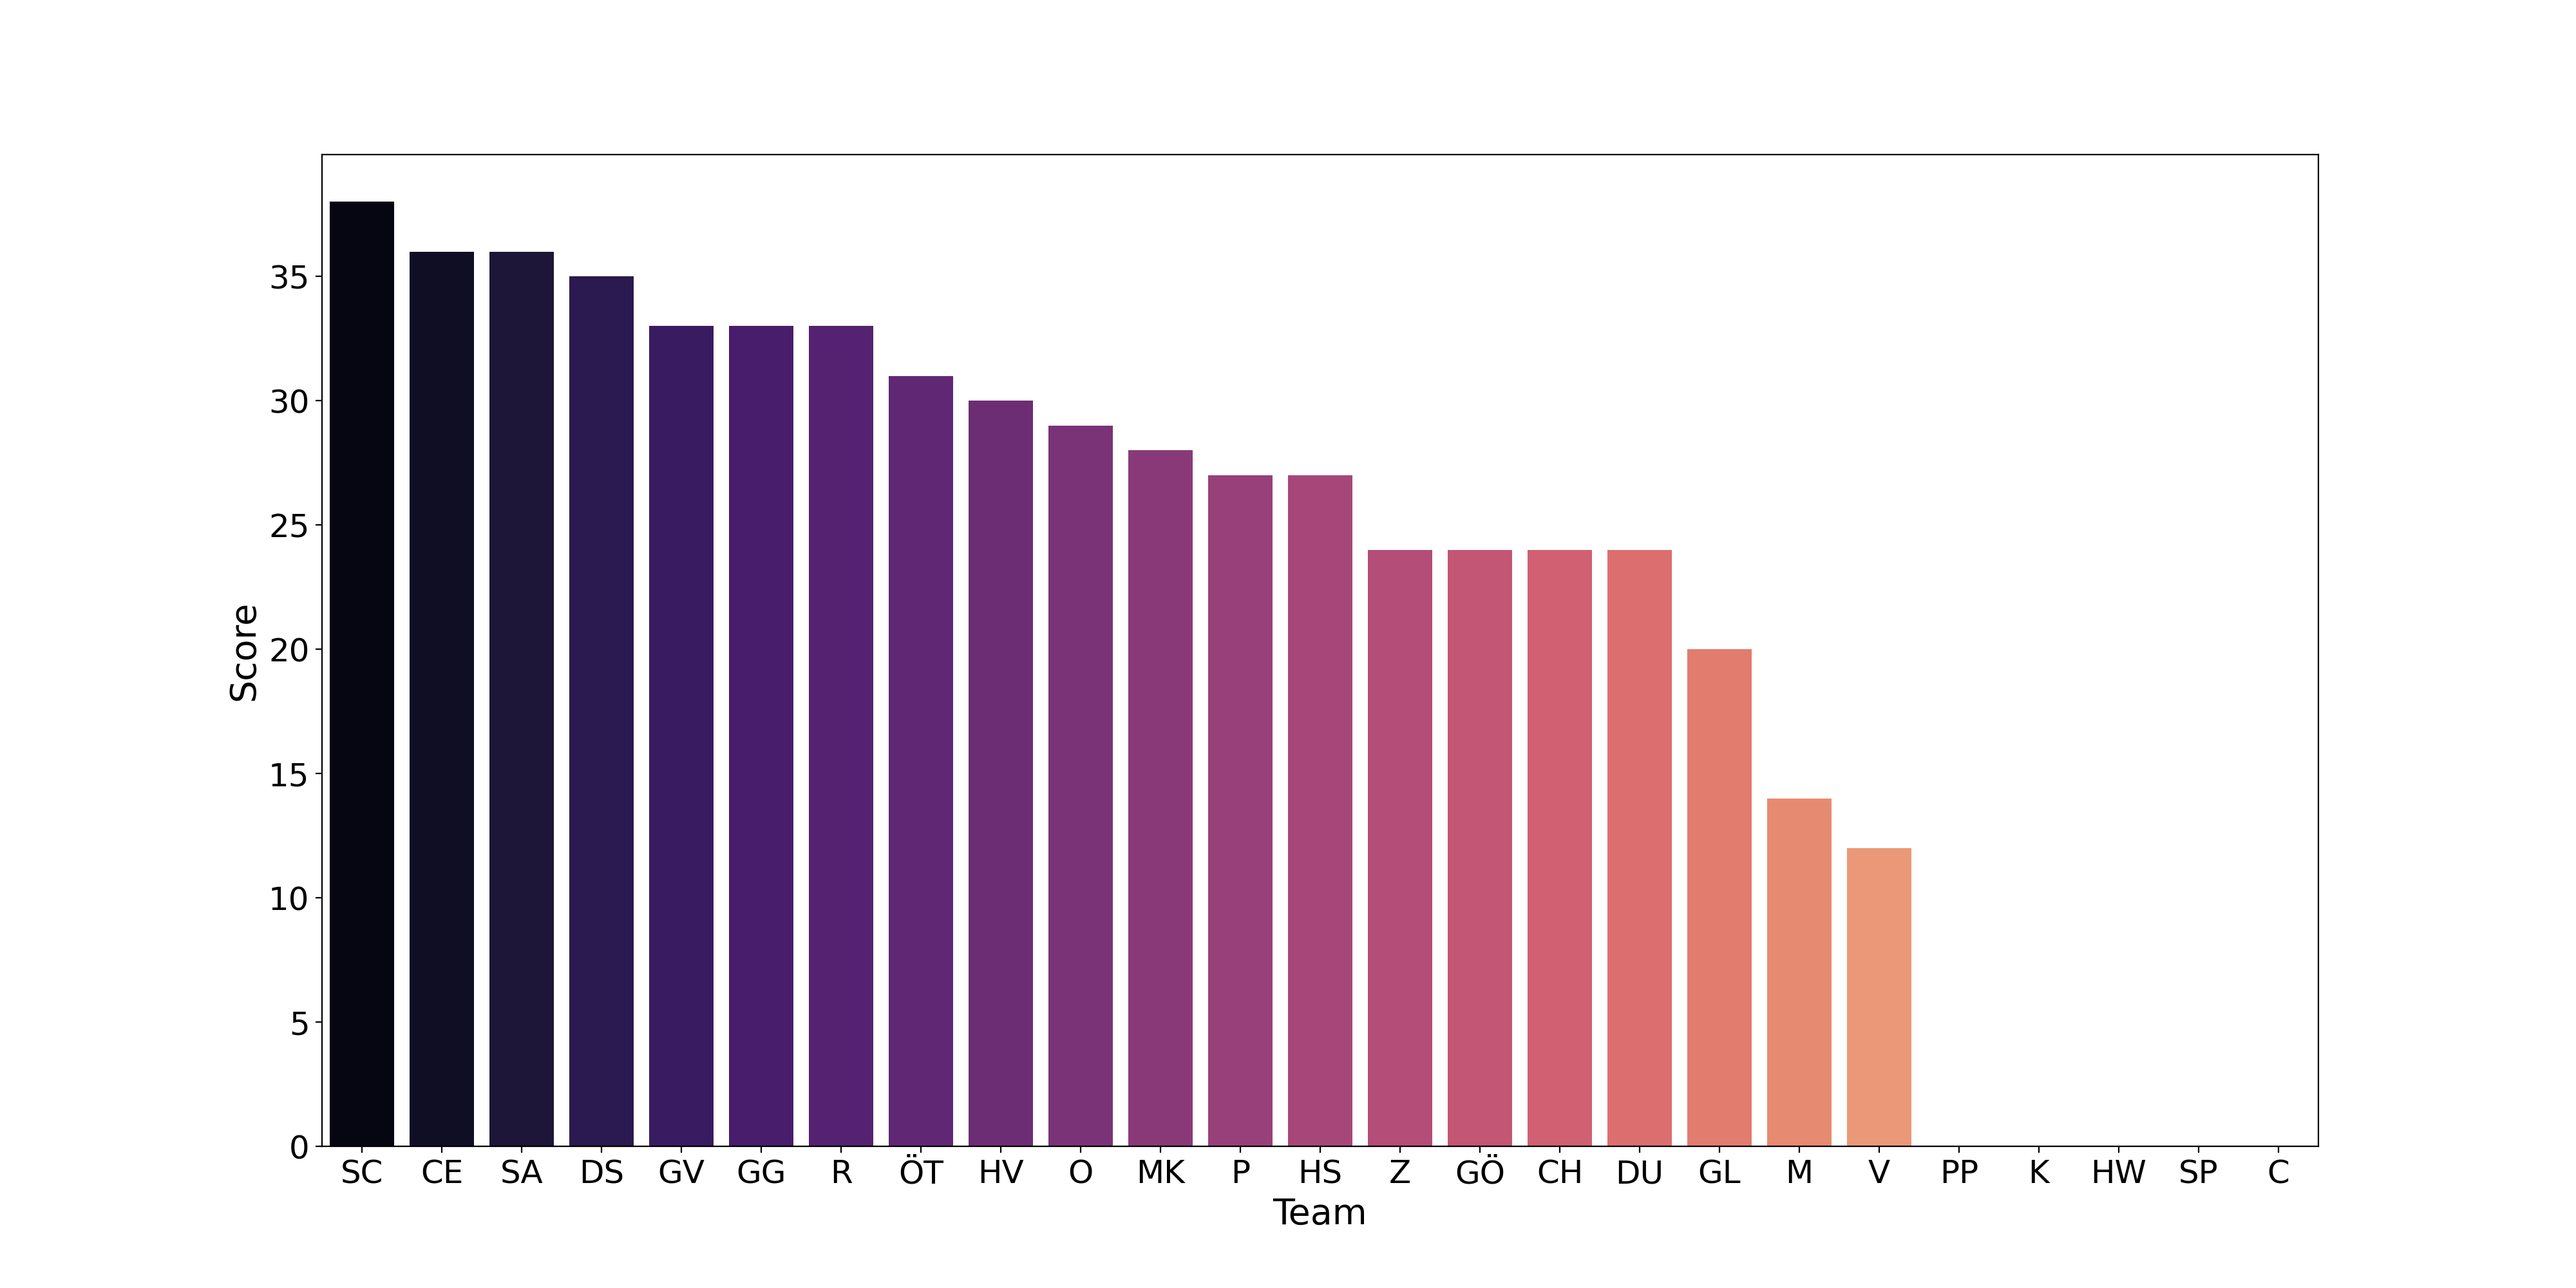
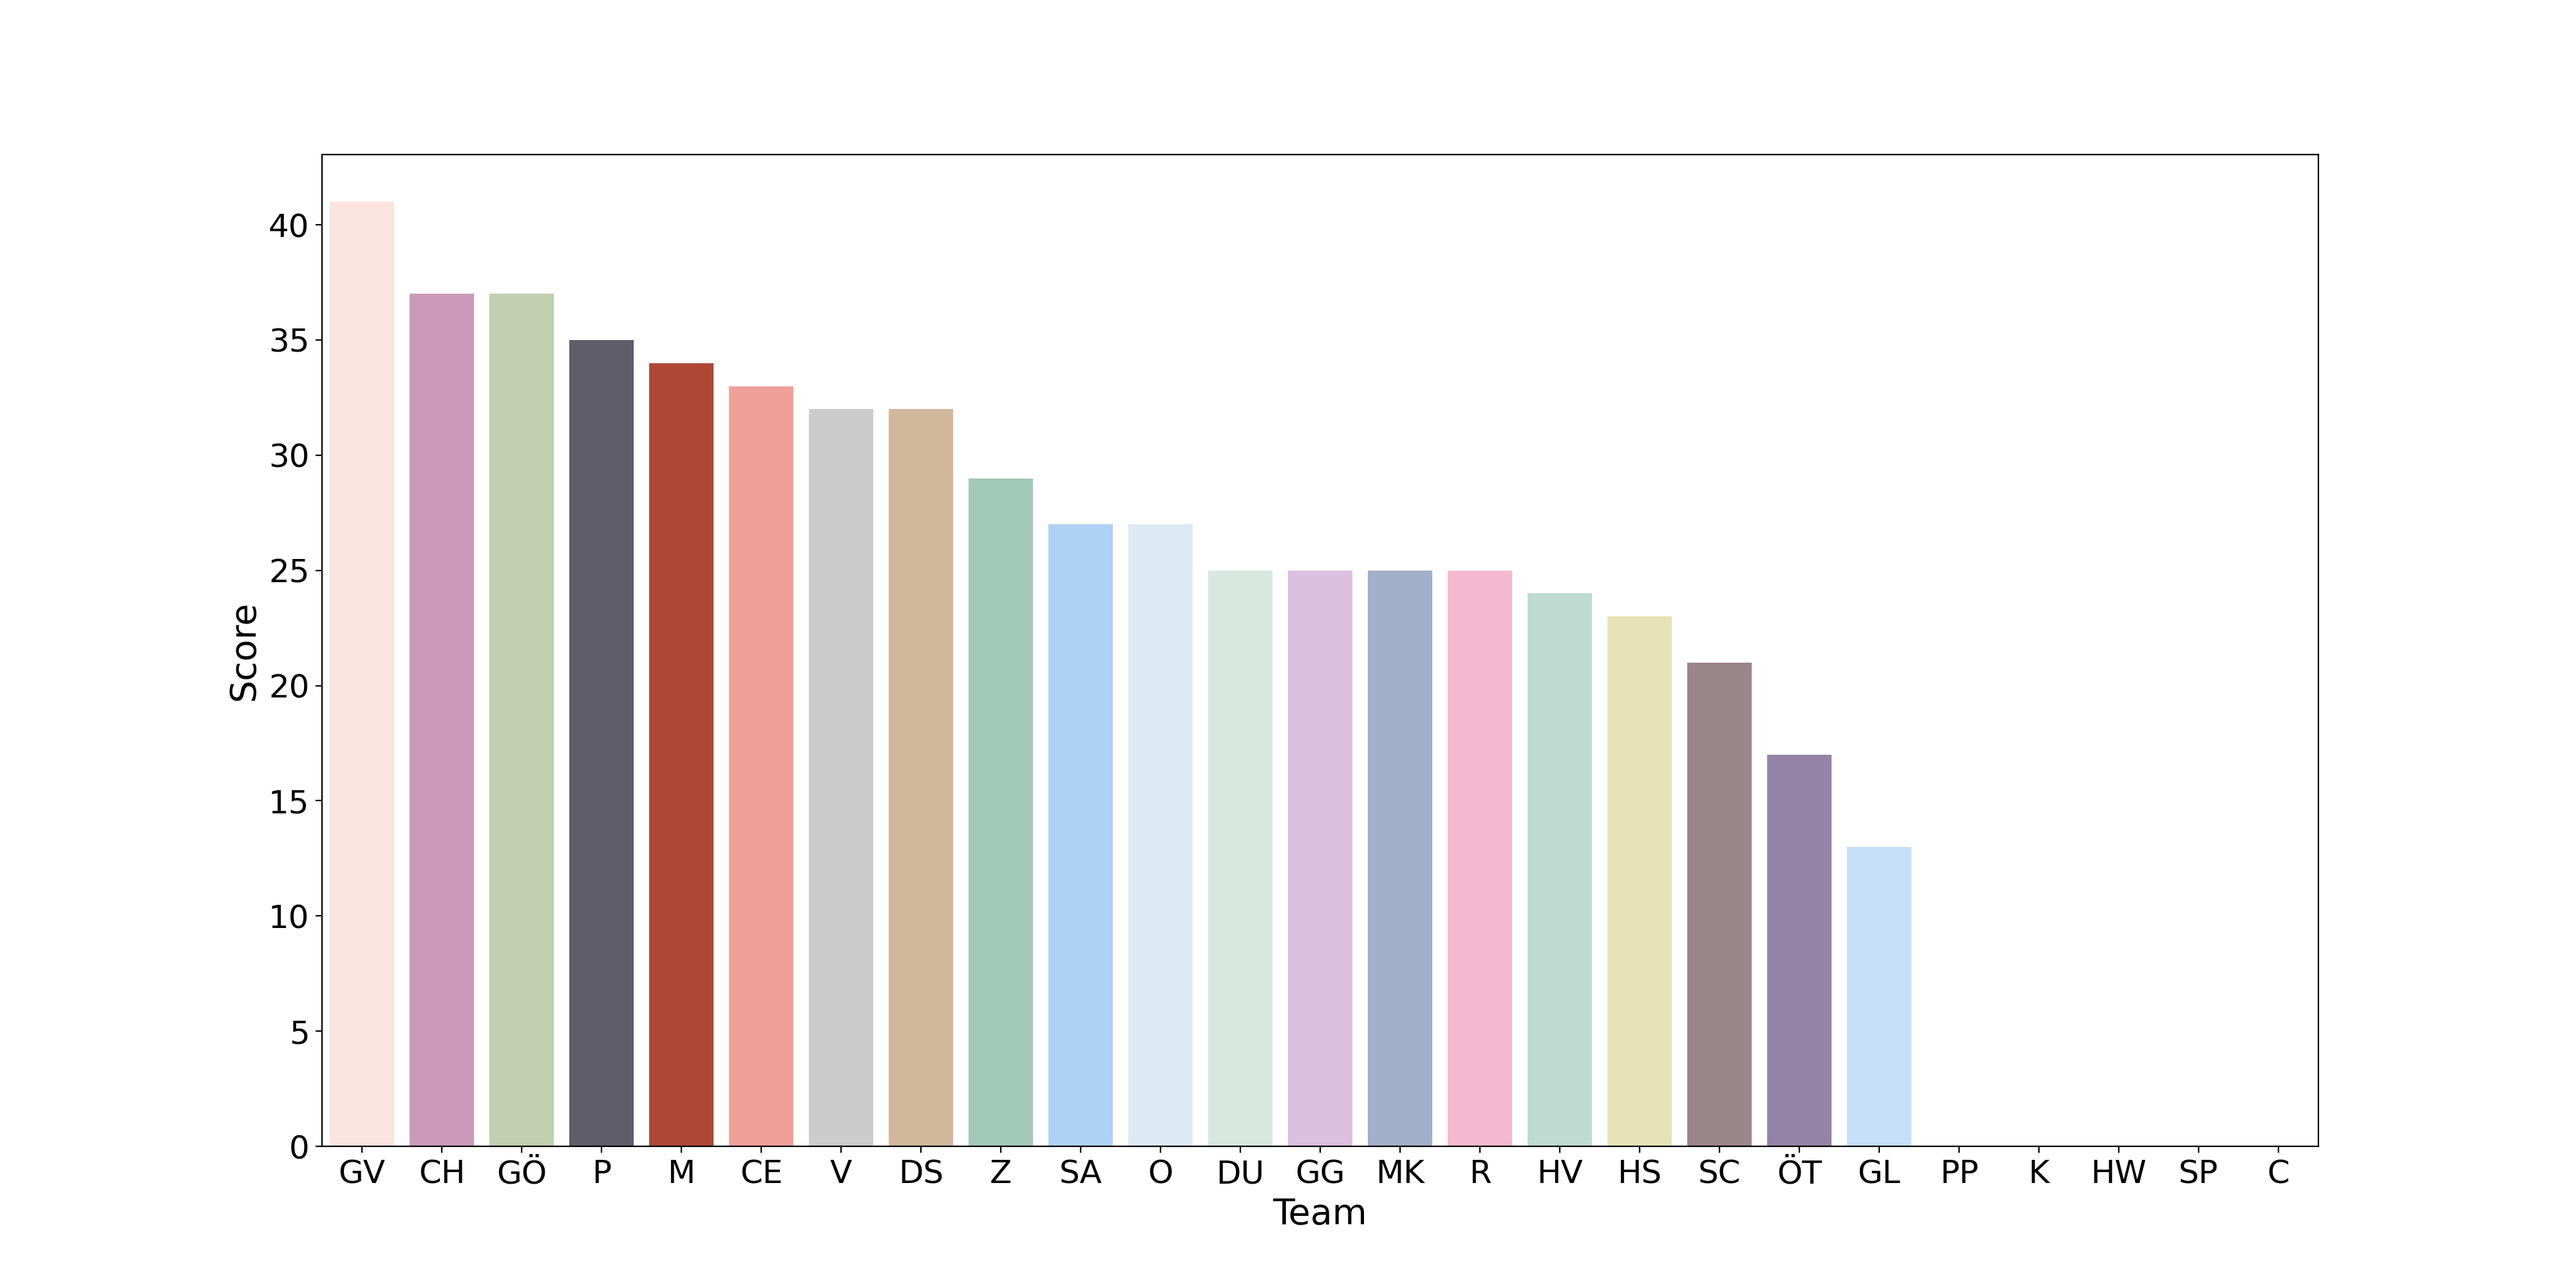
color pallet done

Changed region(s): [[0.0938, 0.155, 0.75, 0.93]]

diff --git a/google_sheet/data_google_sheet.py b/google_sheet/data_google_sheet.py
@@ -81,8 +81,11 @@ df_team["Teamname"] = df_team["short"]
 # Visualization
 df_team.sort_values(by=["Score"],inplace=True,ascending=False)
 
+colors = df_team["color"]
+sns.set_palette(sns.color_palette(colors))
+
 plt.figure(figsize=(20,10), dpi=200)
-sns.barplot(y = 'Score', x="Teamname", data = df_team, palette = 'magma')
+sns.barplot(y = 'Score', x="Teamname", data = df_team)
 plt.xlabel('Team', fontsize=20)
 plt.ylabel('Score', fontsize=20)
 plt.xticks(fontsize= 18)
